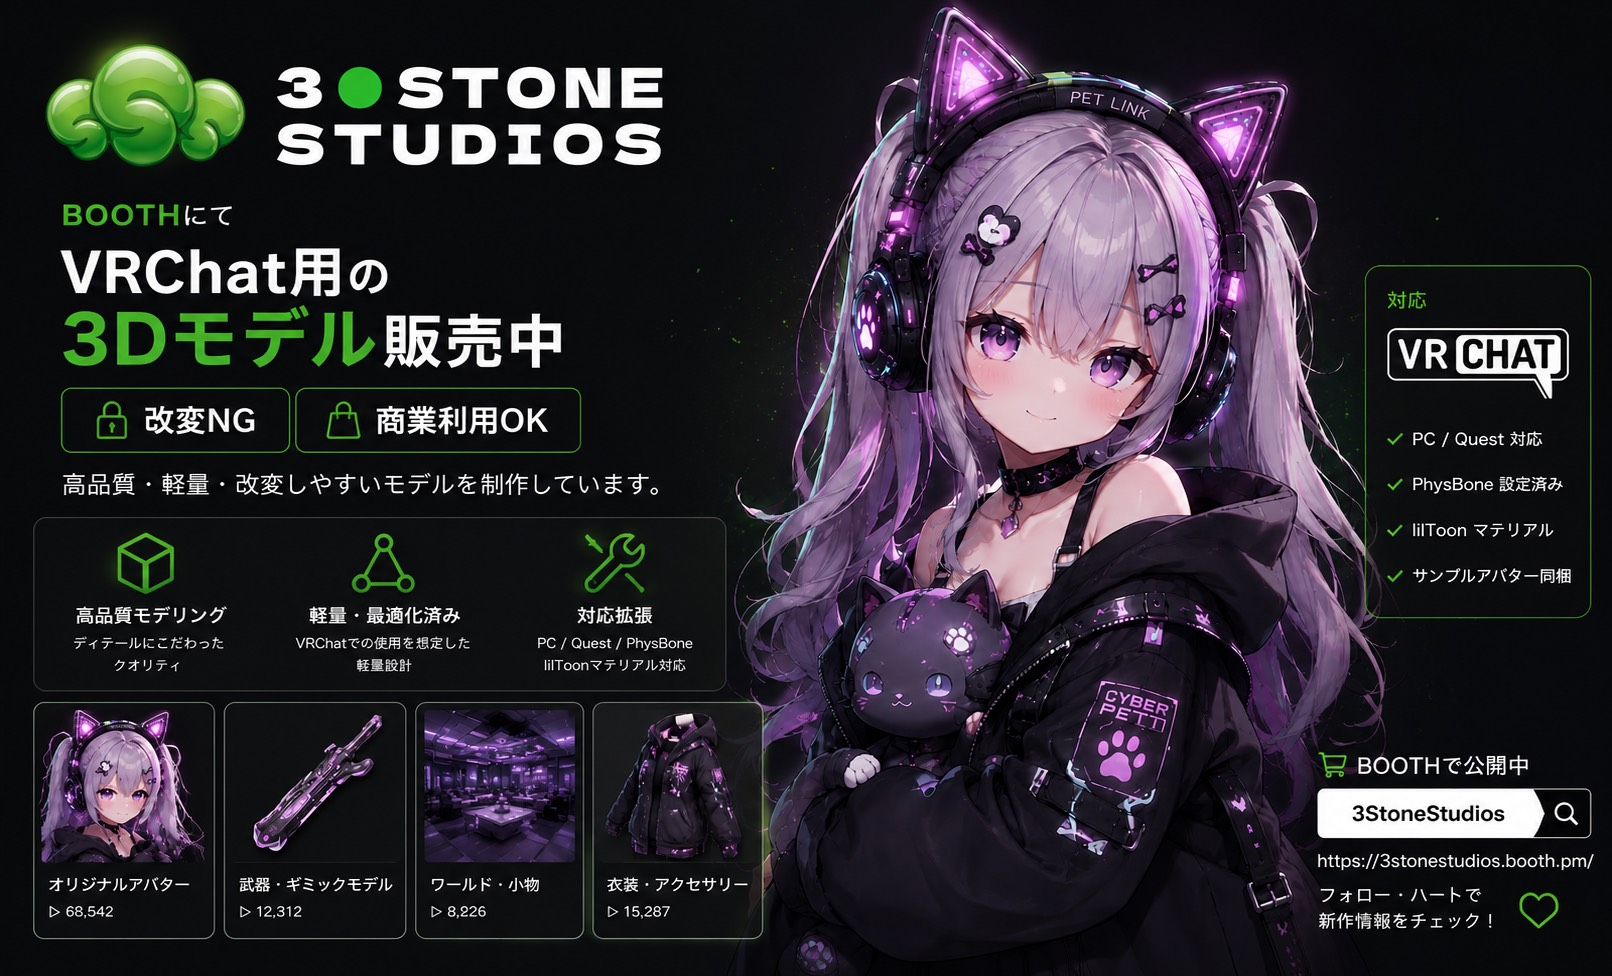
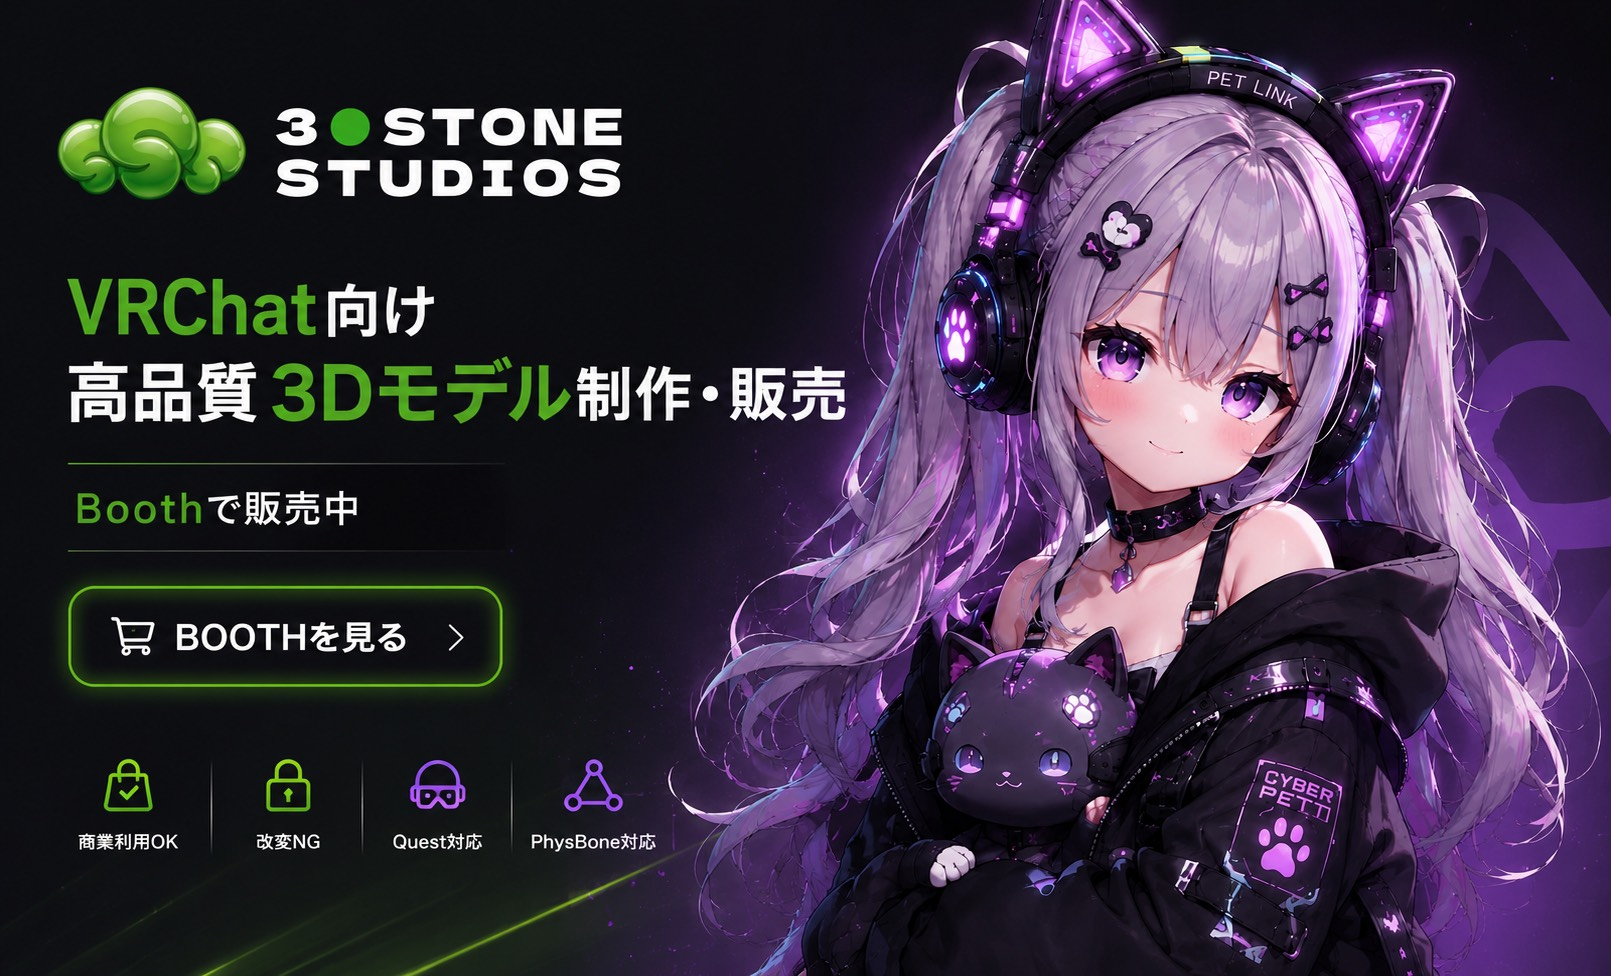
BOOTH広告画像を差し替え、ヒーロー2枚目を荷風異聞録ロゴ・3枚目をBOOTH広告に並び替え

diff --git a/index.html b/index.html
@@ -1360,7 +1360,7 @@
   let heroAutoPlay;
 
   async function loadHeroSlides() {
-    const TEST_SLIDES = [{ url: '/3ss-logo.jpg' }, { url: '/booth-ad.png' }, { url: '/kafu-ibunroku-logo.jpg' }];
+    const TEST_SLIDES = [{ url: '/3ss-logo.jpg' }, { url: '/kafu-ibunroku-logo.jpg' }, { url: '/booth-ad.png' }];
     try {
       const snap = await getDocs(query(heroSlidesCol, orderBy('order')));
       heroSlides = [...TEST_SLIDES, ...snap.docs.map(d => ({ id: d.id, ...d.data() }))];
